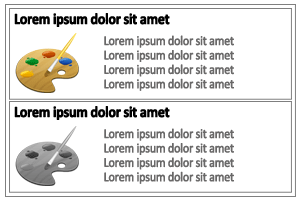
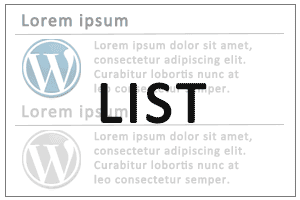
New layout "Thumb" Update layout's thumbnails Small navigation refactoring

diff --git a/layouts/thumb.php b/layouts/thumb.php
@@ -3,20 +3,23 @@
  * @package WordPress
  * @subpackage constructor
  */
-__('Default', 'constructor'); // required for correct translation
+__('Single', 'constructor'); // required for correct translation
 ?>
 <div id="content" class="box shadow opacity <?php the_constructor_layout_class() ?>">
     <div id="container" >
     <?php get_constructor_slideshow(true) ?>
-    <?php if (have_posts()) : $i = 0; ?>
+
+    <?php if (have_posts()) : ?>
         <div id="posts">
-        <?php while (have_posts()) : the_post(); $i++; ?>
+        <?php while (have_posts()) : the_post(); ?>
             <div <?php post_class(); ?> id="post-<?php the_ID() ?>">
                 <div class="title opacity box">
-                    <h2><a href="<?php the_permalink() ?>" rel="bookmark" title="<?php printf(__('Permanent Link to %s', 'constructor'), the_title_attribute('echo=0')); ?>"><?php the_title(); ?></a></h2>
+                    <h1><a href="<?php the_permalink() ?>" rel="bookmark" title="<?php printf(__('Permanent Link to %s', 'constructor'), the_title_attribute('echo=0')); ?>"><?php the_title(); ?></a></h1>
                 </div>
                 <div class="entry">
-                	<?php the_content(__('Read the rest of this entry &raquo;', 'constructor')); ?>
+                    <?php echo get_the_post_thumbnail(NULL, 'tile-post-thumbnail', array('class'=>'aligncenter')) ?>
+                    <?php the_content(__('Read the rest of this entry &raquo;', 'constructor')) ?>
+				    <?php wp_link_pages(array('before' => '<p class="pages"><strong>'.__('Pages', 'constructor').':</strong> ', 'after' => '</p>', 'next_or_number' => 'number')); ?>
                 </div>
                 <div class="footer">
                     <div class="links">
@@ -33,12 +36,11 @@ __('Default', 'constructor'); // required for correct translation
                     </div>
                 </div>
             </div>
-            <?php get_constructor_content_widget($i) ?>
         <?php endwhile; ?>
         </div>
         <?php comments_template(); ?>
         <?php get_constructor_navigation(); ?>
     <?php endif; ?>
-    </div>
+    </div><!-- id='container' -->
     <?php get_constructor_sidebar(); ?>
 </div><!-- id='content' -->

diff --git a/layouts/tile.php b/layouts/tile.php
@@ -16,6 +16,7 @@ __('Tile', 'constructor'); // required for correct translation
                     <h2><a href="<?php the_permalink() ?>" rel="bookmark" title="<?php printf(__('Permanent Link to %s', 'constructor'), the_title_attribute('echo=0')); ?>"><?php the_title(); ?></a></h2>
                 </div>
                 <div class="thumbnail">
+                    <a href="<?php the_permalink() ?>" rel="bookmark" title="<?php printf(__('Permanent Link to %s', 'constructor'), the_title_attribute('echo=0')); ?>">
                     <?php 
                         // try to found post thubmnail
                         if (!($thumb = get_the_post_thumbnail(NULL, 'tile-post-thumbnail'))) {
@@ -23,6 +24,7 @@ __('Tile', 'constructor'); // required for correct translation
                         } 
                         echo $thumb;    
                     ?>
+                    </a>
                 </div>
                 <div class="links opacity">
                     <div class="date"><?php the_date() ?></div>

diff --git a/navigation.php b/navigation.php
@@ -7,9 +7,12 @@
  */
 ?>
 <div class="navigation">
-    <?php if (function_exists('wp_pagenavi')) : ?>
+    <?php if (is_singular()) : // Whether is single post, is a page, or is an attachment ?>
+        <div class="alignleft"><?php next_post_link('%link', '<span>&laquo;</span> %title') ?></div>
+        <div class="alignright"><?php previous_posts_link('%link', '%title <span>&raquo;</span>') ?></div>
+    <?php elseif (function_exists('wp_pagenavi')) : // Plugin pagenavi ?>
         <?php wp_pagenavi(); ?>
-    <?php else: ?>
+    <?php else: // Default page navigation ?>
         <div class="alignleft"><?php next_posts_link(__('<span>&laquo;</span> Older Entries', 'constructor')) ?></div>
         <div class="alignright"><?php previous_posts_link(__('Newer Entries <span>&raquo;</span>', 'constructor')) ?></div>
     <?php endif; ?>

diff --git a/functions.php b/functions.php
@@ -26,7 +26,7 @@ load_theme_textdomain('constructor', CONSTRUCTOR_DIRECTORY.'/lang');
 if (function_exists('add_theme_support')) { // Added in 2.9
 	// This theme uses post thumbnails
 	add_theme_support('post-thumbnails' );
-	set_post_thumbnail_size( 64, 64, true ); // Normal post thumbnail
+	set_post_thumbnail_size(64, 64, true); // Normal post thumbnail
 	add_image_size('list-post-thumbnail', 128, 128, true );
 	add_image_size('tile-post-thumbnail', 312, 292, true );
 	    
@@ -47,7 +47,7 @@ if (function_exists('register_sidebar')) {
         'after_widget' => '</li>',
         'before_title' => '<span>',
         'after_title' => '</span>',
-    )); 
+    ));
     
     register_sidebar(array(
         'id'=>'content',

diff --git a/layouts/single.php b/layouts/single.php
@@ -38,10 +38,7 @@ __('Single', 'constructor'); // required for correct translation
         <?php endwhile; ?>
         </div>
         <?php comments_template(); ?>
-        <div class="navigation">
-            <div class="alignleft"><?php previous_post_link('%link', '<span>&laquo;</span> %title') ?></div>
-            <div class="alignright"><?php next_post_link('%link', '%title <span>&raquo;</span>') ?></div>
-        </div>
+        <?php get_constructor_navigation(); ?>
     <?php endif; ?>
     </div><!-- id='container' -->
     <?php get_constructor_sidebar(); ?>

diff --git a/layouts/list.php b/layouts/list.php
@@ -29,6 +29,7 @@ __('List', 'constructor'); // required for correct translation
         <?php get_constructor_content_widget($i) ?>
         <?php endwhile; ?>
         </div>
+        <?php comments_template(); ?>
         <?php get_constructor_navigation(); ?>
     <?php endif; ?>
     </div>

diff --git a/layouts/simple.php b/layouts/simple.php
@@ -25,6 +25,7 @@ __('Simple', 'constructor'); // required for correct translation
             </div>
         <?php endwhile; ?>
         </div>
+        <?php comments_template(); ?>
         <?php get_constructor_navigation(); ?>
     <?php endif; ?>
     </div>
